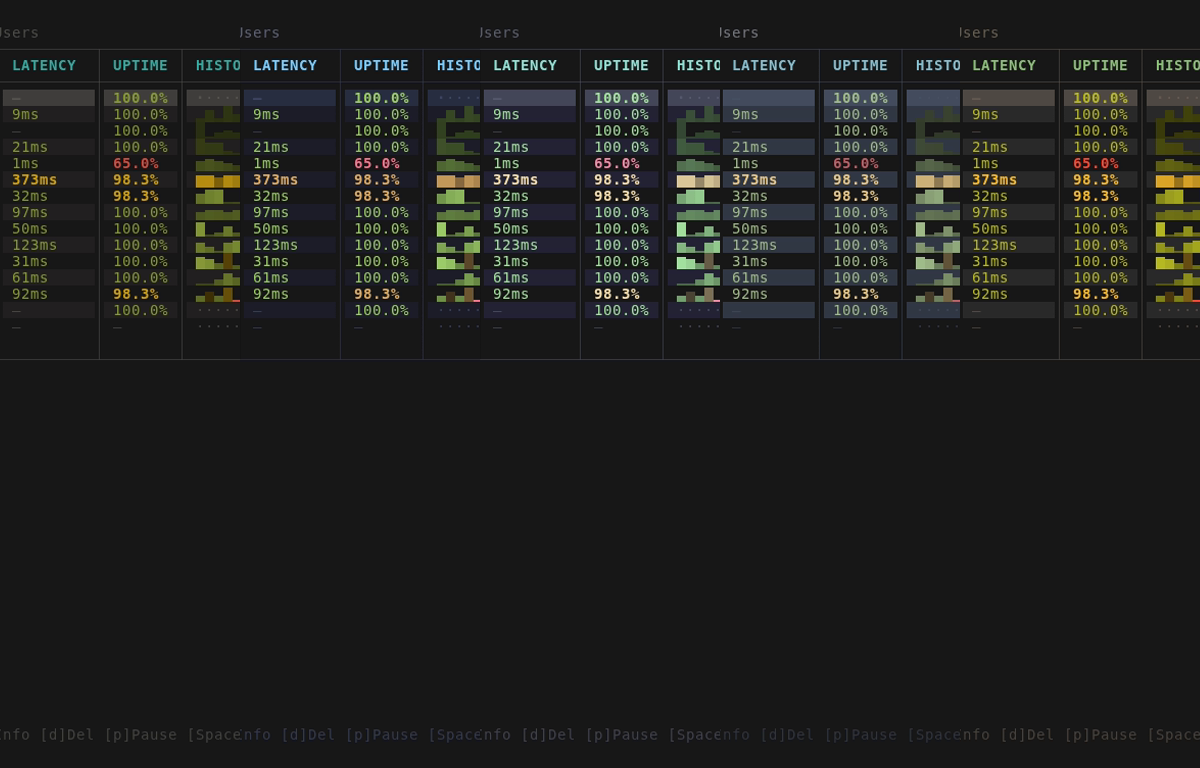
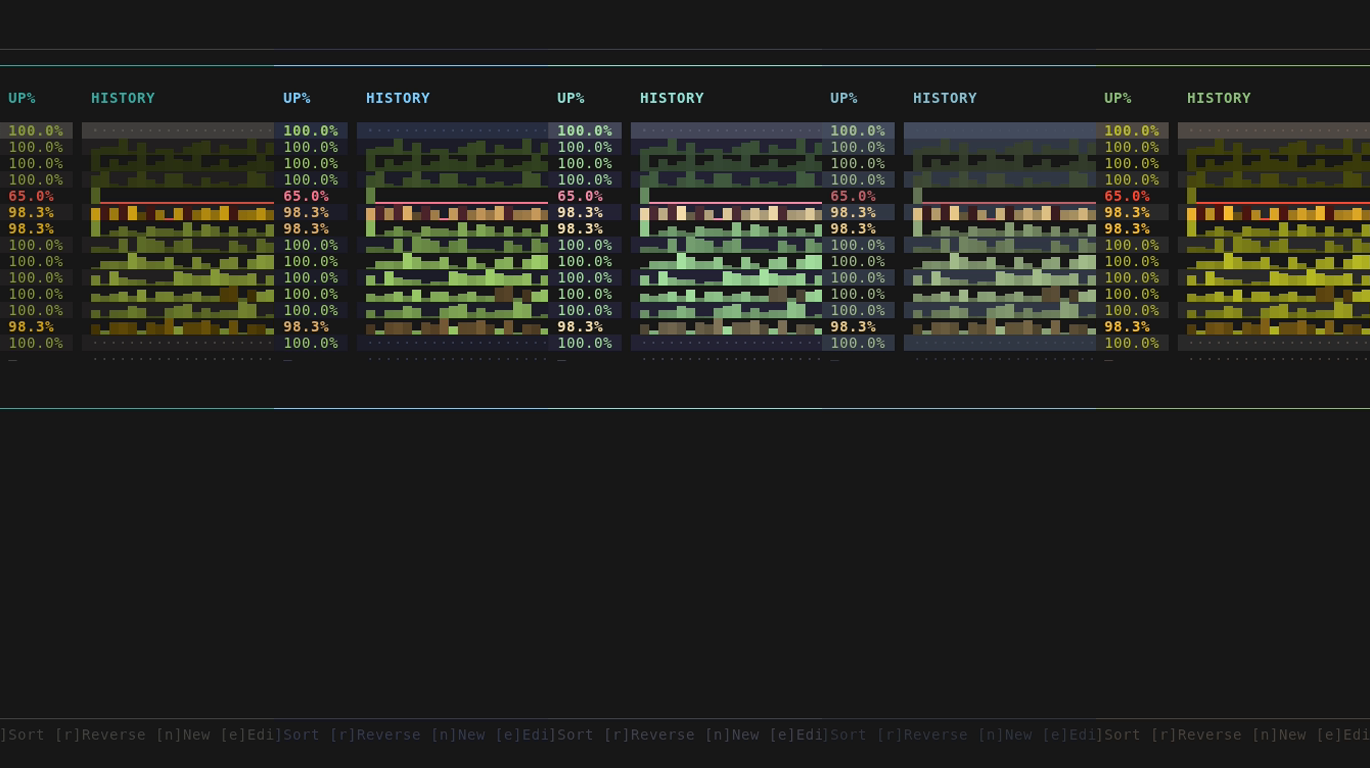
feat(assets): full screenshot refresh for new multi-panel layout
Recaptured all screenshots and demo GIF reflecting the complete TUI
overhaul: 3-tab layout, titled panel borders, log sidebar, inline
detail with latency chart + uptime timeline, full-screen detail with
two-column layout + response histogram.

New screenshots: fulldetail.png, settings.png, maint.png.
Removed: alerts.png, logs.png (now Settings sub-sections and sidebar).
Updated README screenshot grid to match new layout.

diff --git a/README.md b/README.md
@@ -40,16 +40,16 @@ Canonical repo: [gitea.lerkolabs.com/lerkolabs/uptop](https://gitea.lerkolabs.co
 
 <table>
   <tr>
-    <td><img src="assets/monitors.png" alt="monitors dashboard" width="400"></td>
-    <td><img src="assets/detail.png" alt="detail panel" width="400"></td>
+    <td><img src="assets/monitors.png" alt="monitors + log sidebar" width="400"></td>
+    <td><img src="assets/detail.png" alt="inline detail panel" width="400"></td>
   </tr>
   <tr>
-    <td><img src="assets/alerts.png" alt="alerts view" width="400"></td>
-    <td><img src="assets/logs.png" alt="logs view" width="400"></td>
+    <td><img src="assets/fulldetail.png" alt="full-screen detail" width="400"></td>
+    <td><img src="assets/settings.png" alt="settings / alerts" width="400"></td>
   </tr>
   <tr>
+    <td><img src="assets/maint.png" alt="maintenance windows" width="400"></td>
     <td><img src="assets/nodes.png" alt="cluster nodes" width="400"></td>
-    <td><img src="assets/theme.png" alt="theme selection" width="400"></td>
   </tr>
 </table>
 
